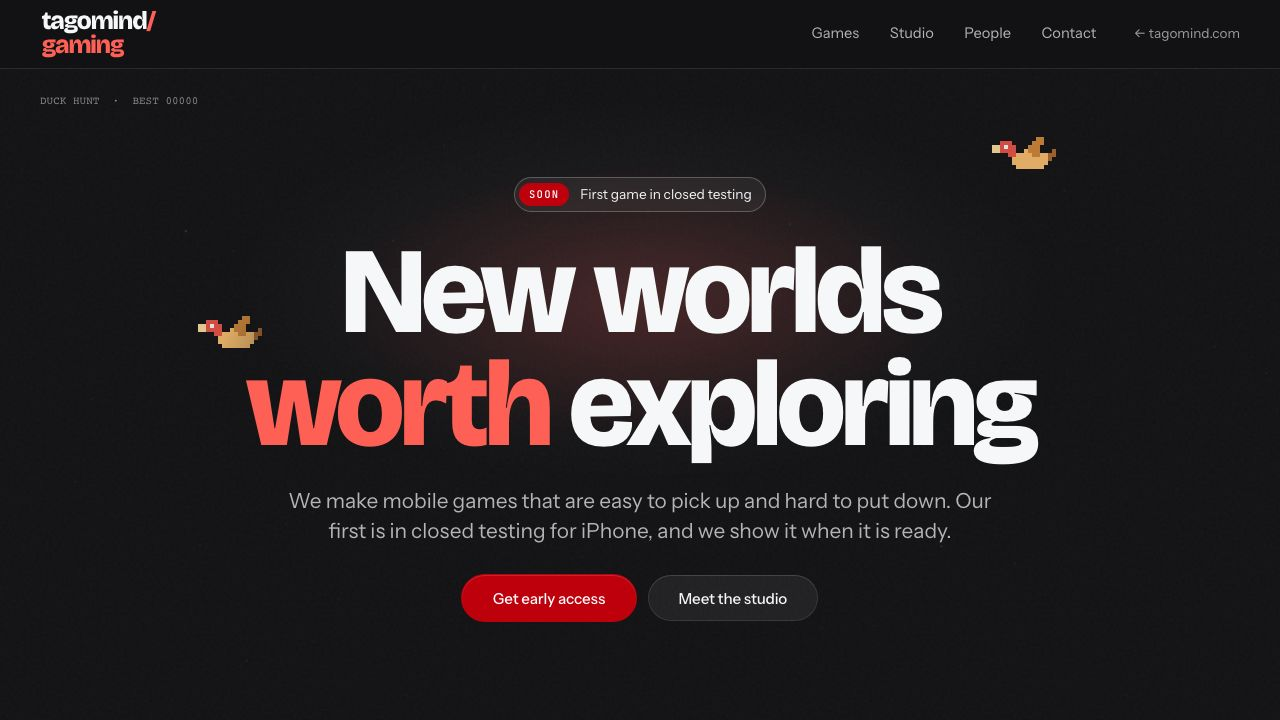
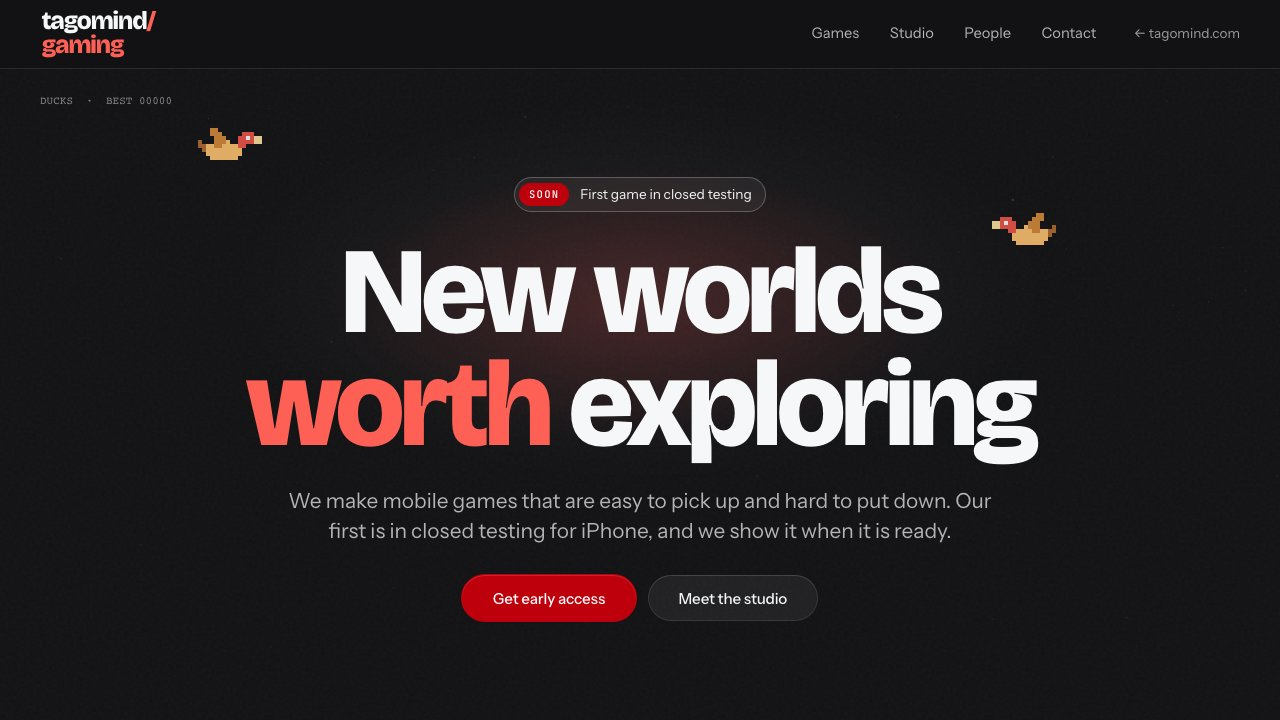
Home: TagoMind Gaming leads Selected projects; gaming hero game renamed from Duck Hunt to Ducks, Products screenshot retaken

diff --git a/static/gaming/js/site.js b/static/gaming/js/site.js
@@ -95,7 +95,7 @@
     setTimeout(()=>{btn.textContent=old;btn.classList.remove('copied')},1600);
   }));
 
-  /* ── home hero: duck hunt. Ducks cross the night sky behind the headline; click to shoot.
+  /* ── home hero: ducks. Ducks cross the night sky behind the headline; click to shoot.
         The aim reticle and glow follow the pointer the same way tagomind.com's hero does,
         the headline stays readable, and the loop runs only while the hero is on screen. ── */
   function ducks(cv){
@@ -368,7 +368,7 @@
         ctx.textAlign='start';return}
       // idle: an arcade attract screen in the score's own type — best score, then a blinking "click to start"
       const x=Math.max(20,(W-1280)/2+40),y=Math.max(96,(document.querySelector('.topbar')?.getBoundingClientRect().bottom||68)+28),m=W<700;
-      const tp=matchMedia('(pointer: coarse)').matches,name=mode==='getaway'?'GETAWAY':mode==='lookout'?'LOOKOUT':'DUCK HUNT';
+      const tp=matchMedia('(pointer: coarse)').matches,name=mode==='getaway'?'GETAWAY':mode==='lookout'?'LOOKOUT':'DUCKS';
       const how=mode==='getaway'?'DODGE THE COPS · GRAB THE CASH':mode==='lookout'?'SPOT THE COPS · NOT THE NEIGHBOURS':'SHOOT THE DUCKS · 3 SHELLS';
       ctx.textBaseline='top';
       ctx.font='500 11px "JetBrains Mono",ui-monospace,monospace';ctx.fillStyle='rgba(255,255,255,.5)';ctx.fillText(name+'  ·  BEST '+String(best).padStart(5,'0'),x,y);

diff --git a/content/_index.md b/content/_index.md
@@ -12,6 +12,12 @@ hero:
   lead: "I build AI tools for complex work and everyday decisions, grounded in research."
   affiliation: "Postdoctoral Researcher · Wrocław University of Science and Technology"
 practice:
+  - page: "tagomind-gaming"
+    host: "tagomind.com/gaming"
+    category: "TagoMind studio"
+    description: "A small mobile-game studio with its own AI-assisted pipeline: AI writes the code, runs builds and tests, and checks the balance maths, so each new game costs less to make."
+    proof: "First title · closed testing on iPhone"
+    context: "Reveal planned for November 2026 · founder and lead developer"
   - page: "ai-tax"
     host: "ai4tax.pl"
     category: "Legal & tax AI"
@@ -41,12 +47,6 @@ practice:
     description: "AI-assisted flat hunting: scoring listings, summarizing visits, and comparing options against the criteria that matter to you."
     proof: "LLM agents · end-to-end product"
     context: "Early access · public demo · independent engineering and delivery"
-  - page: "tagomind-gaming"
-    host: "tagomind.com/gaming"
-    category: "TagoMind studio"
-    description: "A small mobile-game studio with its own AI-assisted pipeline: AI writes the code, runs builds and tests, and checks the balance maths, so each new game costs less to make."
-    proof: "First title · closed testing on iPhone"
-    context: "Reveal planned for November 2026 · founder and lead developer"
 directions:
   - title: "Discover missing information"
     question: "How can agents identify missing facts and ask useful follow-up questions?"
